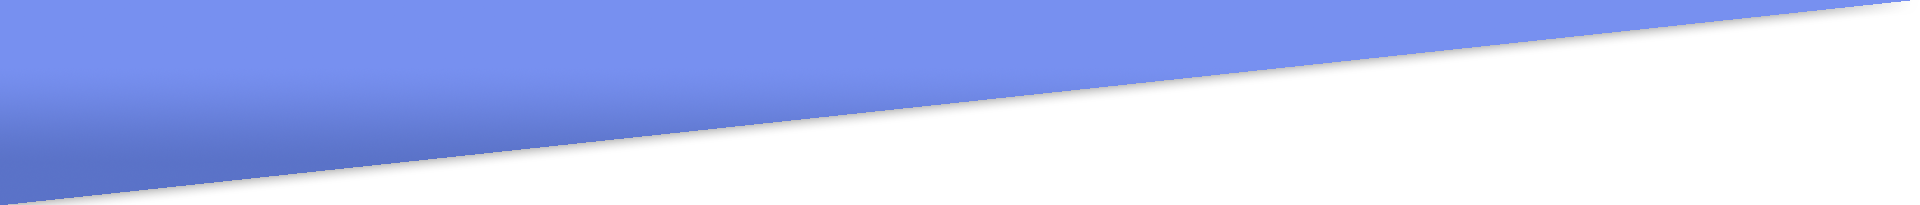
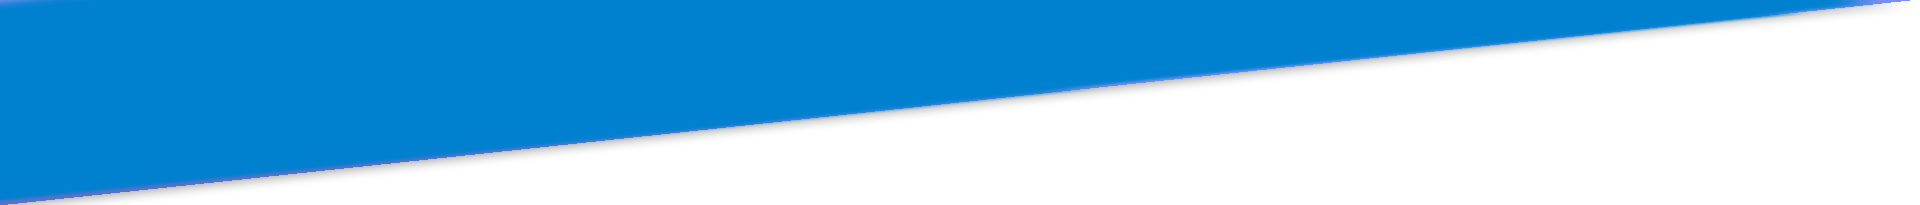
Nuevos ajustes PhercuWeb:
1. Se Re diseñaron las imagenes
2. Se cambiaron los colores del menu de navegacion.
3. Se ajustaron los diseños de las tarifas.
4. Se cambio el color de texto de "Quienes Somos"
5. Cambios realizados al boton de "Quienes Somos"
6. "Portafolio" se sjustaron los titulos de la imagen.
7. Se cambio el color para cuando se pase el mouse sobre una img en "Portafolio"
8. Se cambio la imagen de fondo de "Tarifas"
9. Se modifico el menu para dispositivos moviles, colores de textos y fondo.

diff --git a/index.html b/index.html
@@ -29,7 +29,7 @@
 	<div class="templatemo-header tm-orange-bg-transparent">
 		<div class="templatemo-header-inner">					
 			<div class="container">
-			<img src="images/titulos/PhercuFirma.png" style="width: 250px; height: 150px;">
+			<img src="images/titulos/PhercuFirma.png" style="width: 250px; height: 150px; margin-left: 2%;">
 				<!-- <h1 class="templatemo-logo text-uppercase pull-left"></h1> -->
 				<nav class="hidden-xs templatemo-nav pull-right text-uppercase">
 					<ul class="menu-holder">
@@ -153,7 +153,7 @@
 		<div class="container text-center">
 			<div class="tm-pricing-table-container">
 				<div class="tm-pricing-table tm-dark-bg-tarject">
-					<h2 class="tm-pricing-header tm-orange-text text-center text-uppercase">Starter</h2>				
+					<h2 class="tm-pricing-header tm-orange-text text-center text-uppercase">Diseño Grafico</h2>				
 					<div class="tm-pricing-details text-center tm-light-gray-text">
 						<div class="price-tag">
 							<div class="price-tag-inner">
@@ -184,7 +184,7 @@
 			</div>
 			<div class="tm-pricing-table-container">
 				<div class="tm-pricing-table table-big tm-dark-bg">
-					<h2 class="tm-pricing-header tm-orange-text text-center text-uppercase">Pro</h2>
+					<h2 class="tm-pricing-header tm-orange-text text-center text-uppercase">Ilustraciones</h2>
 					<div class="tm-pricing-details text-center tm-light-gray-text">
 						<div class="price-tag">
 							<div class="price-tag-inner">
@@ -215,7 +215,7 @@
 			</div>
 			<div class="tm-pricing-table-container">
 				<div class="tm-pricing-table tm-dark-bg-tarject">
-					<h2 class="tm-pricing-header tm-orange-text text-center text-uppercase">Advanced</h2>
+					<h2 class="tm-pricing-header tm-orange-text text-center text-uppercase">Ediciones de video</h2>
 					<div class="tm-pricing-details text-center tm-light-gray-text">
 						<div class="price-tag">
 							<div class="price-tag-inner">
@@ -258,8 +258,8 @@
 							<div class="tm-portfolio-image-overlay text-center">
 								<div class="absolute-center">
 									<a href="#" class="fa fa-search"></a>
-									<h2 class="text-uppercase tm-white-text">Lorem</h2>
-									<p class="text-uppercase">sagittis</p>	
+									<h2 class="text-uppercase tm-white-text">Batman</h2>
+									<p class="text-uppercase">Minimalismo</p>	
 								</div>								
 							</div>
 							<img src="images/portfolio/01.jpg" alt="Portfolio 1">
@@ -268,8 +268,8 @@
 							<div class="tm-portfolio-image-overlay">
 								<div class="absolute-center">
 									<a href="#" class="fa fa-search"></a>
-									<h2 class="text-uppercase tm-white-text">Dimperdiet</h2>
-									<p class="text-uppercase">Aliquam</p>	
+									<h2 class="text-uppercase tm-white-text">Andy Marquez</h2>
+									<p class="text-uppercase">Logo</p>	
 								</div>								
 							</div>
 							<img src="images/portfolio/02.jpg" alt="Portfolio 2">	
@@ -278,18 +278,18 @@
 							<div class="tm-portfolio-image-overlay">
 								<div class="absolute-center">
 									<a href="#" class="fa fa-search"></a>
-									<h2 class="text-uppercase tm-white-text">Pellentesque</h2>
-									<p class="text-uppercase">noemer</p>	
+									<h2 class="text-uppercase tm-white-text">Phercu's Coffe</h2>
+									<p class="text-uppercase">Diseño</p>	
 								</div>								
 							</div>
-							<img src="images/portfolio/03.png" alt="Portfolio 3">	
+							<img src="images/portfolio/10.jpg" alt="Portfolio 10">	
 						</div>
 						<div class="tm-image-container">
 							<div class="tm-portfolio-image-overlay">
 								<div class="absolute-center">
 									<a href="#" class="fa fa-search"></a>
-									<h2 class="text-uppercase tm-white-text">Aenean</h2>
-									<p class="text-uppercase">pharetra</p>	
+									<h2 class="text-uppercase tm-white-text">Phercu Ediciones</h2>
+									<p class="text-uppercase">Diseño</p>	
 								</div>								
 							</div>
 							<img src="images/portfolio/04.jpg" alt="Portfolio 4">
@@ -298,8 +298,8 @@
 							<div class="tm-portfolio-image-overlay">
 								<div class="absolute-center">
 									<a href="#" class="fa fa-search"></a>
-									<h2 class="text-uppercase tm-white-text">condimentum</h2>
-									<p class="text-uppercase">libero</p>	
+									<h2 class="text-uppercase tm-white-text">Memoria 02/17</h2>
+									<p class="text-uppercase">Ilustracion</p>	
 								</div>								
 							</div>
 							<img src="images/portfolio/05.jpg" alt="Portfolio 5">
@@ -308,8 +308,8 @@
 							<div class="tm-portfolio-image-overlay">
 								<div class="absolute-center">
 									<a href="#" class="fa fa-search"></a>
-									<h2 class="text-uppercase tm-white-text">nulla</h2>
-									<p class="text-uppercase">consectetur</p>	
+									<h2 class="text-uppercase tm-white-text">Habitacion</h2>
+									<p class="text-uppercase">Diseño 3D</p>	
 								</div>								
 							</div>
 							<img src="images/portfolio/06.jpg" alt="Portfolio 6">
@@ -318,8 +318,8 @@
 							<div class="tm-portfolio-image-overlay">
 								<div class="absolute-center">
 									<a href="#" class="fa fa-search"></a>
-									<h2 class="text-uppercase tm-white-text">Rondimentum</h2>
-									<p class="text-uppercase">Sdui</p>	
+									<h2 class="text-uppercase tm-white-text">Habitacion 2</h2>
+									<p class="text-uppercase">Diseño 3D</p>	
 								</div>								
 							</div>
 							<img src="images/portfolio/07.jpg" alt="Portfolio 7">
@@ -328,18 +328,8 @@
 							<div class="tm-portfolio-image-overlay">
 								<div class="absolute-center">
 									<a href="#" class="fa fa-search"></a>
-									<h2 class="text-uppercase tm-white-text">imperdiet</h2>
-									<p class="text-uppercase">Raugue</p>	
-								</div>								
-							</div>
-							<img src="images/portfolio/08.jpg" alt="Portfolio 8">
-						</div>
-						<div class="tm-image-container tm-show-hide">
-							<div class="tm-portfolio-image-overlay">
-								<div class="absolute-center">
-									<a href="#" class="fa fa-search"></a>
-									<h2 class="text-uppercase tm-white-text">blandit</h2>
-									<p class="text-uppercase">Aliquam</p>	
+									<h2 class="text-uppercase tm-white-text">Habitacion 3</h2>
+									<p class="text-uppercase">Diseño 3D</p>	
 								</div>								
 							</div>
 							<img src="images/portfolio/09.jpg" alt="Portfolio 9">
@@ -348,18 +338,28 @@
 							<div class="tm-portfolio-image-overlay">
 								<div class="absolute-center">
 									<a href="#" class="fa fa-search"></a>
-									<h2 class="text-uppercase tm-white-text">Praesent</h2>
-									<p class="text-uppercase">Aliquam</p>	
+									<h2 class="text-uppercase tm-white-text">CEGA</h2>
+									<p class="text-uppercase">Diseño</p>	
 								</div>								
 							</div>
-							<img src="images/portfolio/10.jpg" alt="Portfolio 10">
+							<img src="images/portfolio/08.jpg" alt="Portfolio 8">
 						</div>
 						<div class="tm-image-container tm-show-hide">
 							<div class="tm-portfolio-image-overlay">
 								<div class="absolute-center">
 									<a href="#" class="fa fa-search"></a>
-									<h2 class="text-uppercase tm-white-text">Dimperdiet</h2>
-									<p class="text-uppercase">Aliquam</p>	
+									<h2 class="text-uppercase tm-white-text">Presentacion</h2>
+									<p class="text-uppercase">Diseño</p>	
+								</div>								
+							</div>
+							<img src="images/portfolio/03.png" alt="Portfolio 3">
+						</div>
+						<div class="tm-image-container tm-show-hide">
+							<div class="tm-portfolio-image-overlay">
+								<div class="absolute-center">
+									<a href="#" class="fa fa-search"></a>
+									<h2 class="text-uppercase tm-white-text">Phercu</h2>
+									<p class="text-uppercase">Diseño</p>	
 								</div>								
 							</div>
 							<img src="images/portfolio/11.jpg" alt="Portfolio 11">
@@ -368,8 +368,8 @@
 							<div class="tm-portfolio-image-overlay">
 								<div class="absolute-center">
 									<a href="#" class="fa fa-search"></a>
-									<h2 class="text-uppercase tm-white-text">Dimperdiet</h2>
-									<p class="text-uppercase">Aliquam</p>	
+									<h2 class="text-uppercase tm-white-text">Phercu</h2>
+									<p class="text-uppercase">Logo</p>	
 								</div>								
 							</div>
 							<img src="images/portfolio/12.png" alt="Portfolio 12">

diff --git a/css/templatemo_style.css b/css/templatemo_style.css
@@ -41,8 +41,8 @@ ul {
 	color: #CF6;
 }
 
-.tm-orange-text { color: #000; }
-.tm-orange-bg {	background-color: #057dca; }
+.tm-orange-text { color: #fff; }
+.tm-orange-bg {	background-color: #0093EE; }
 .tm-orange-bg-transparent {	background-color: #fff; } /*NO SE*/
 .tm-white-text { color: #fff; }  /*NO SE*/
 .tm-dark-text {	color: #fff; } /* botones*/
@@ -118,8 +118,8 @@ a.tm-light-gray-text:hover {
 	-webkit-transition: background-color 0.5s ease;
 }
 .templatemo-nav li>a:hover, .templatemo-nav li>a.active {
-	background-color: rgb(0,0,0);
-	color: #fed222;
+	background-color: rgb(0,129,207);
+	color: #fff;
 	text-decoration: none;	
 }
 
@@ -147,8 +147,8 @@ a.tm-light-gray-text:hover {
 }
 #responsive-menu ul li a {
   padding: 12px 18px;
-  background-color: #1d1d1d;
-  color: #fed222;
+  background-color: #0081CF;
+  color: #fff;
   display: block;
   -webkit-border-radius: 4px;
   -webkit-background-clip: padding-box;
@@ -161,7 +161,7 @@ a.tm-light-gray-text:hover {
 #responsive-menu ul li a i {  margin-right: 15px; }
 a#mobile_menu {
   font-size: 24px;
-  background-color: rgba(255,198,1,0.8);
+  background-color: rgba(1,95,153,0.8);
   color: #ffffff;
   width: 50px;
   height: 50px;
@@ -195,7 +195,7 @@ a#mobile_menu {
 	padding: 10px 15px;
 }
 a.tm-home-more:hover {
-	color: #737373;
+	color: #036BAB;
 	text-decoration: none;
 }
 .tm-home-right { max-width: 350px; }
@@ -309,7 +309,7 @@ a.tm-home-more:hover {
 	line-height: 2em;
 }
 .price-tag {
-	background-color: #057dca; /*color del circulo de precio*/
+	background-color: #fff; /*color del circulo de precio*/
 	border-radius: 50%;
 	color: #1d1d1d;
 	display: inline-block;
@@ -353,7 +353,7 @@ a:hover .overlay p { color: #7b7b7b; }
 }
 .tm-image-container img { width: 100%; }
 .tm-portfolio-image-overlay {
-	background-color: rgba(255,198,1,1);
+	background-color: rgba(42,42,42,1);
 	cursor:pointer;
 	height: 100%;
 	opacity: 0;

diff --git a/js/templatemo_script.js b/js/templatemo_script.js
@@ -231,6 +231,8 @@ function setupAboutSection(){
     });
 }
 
+//OFERTAS CANVAS
+
 function setupPricingSection() {
     
     // http://stackoverflow.com/questions/3318565/any-way-to-clone-html5-canvas-element-with-its-content
@@ -240,7 +242,7 @@ function setupPricingSection() {
     {
         var ctx = canvas1.getContext("2d");
         // Draw triangle
-        ctx.fillStyle="#ffc601";
+        ctx.fillStyle="#0081CF";
         ctx.shadowColor = "rgba(0,0,0,0.3)";
         ctx.shadowBlur = 7;
         ctx.shadowOffsetX = 3;
@@ -265,7 +267,7 @@ function setupPricingSection() {
     {
         var ctx = canvas2.getContext("2d");
         // Draw triangle
-        ctx.fillStyle="#ffc601";
+        ctx.fillStyle="#0081CF";
         ctx.shadowColor = "rgba(0,0,0,0.3)";
         ctx.shadowBlur = 7;
         ctx.shadowOffsetX = 3;
